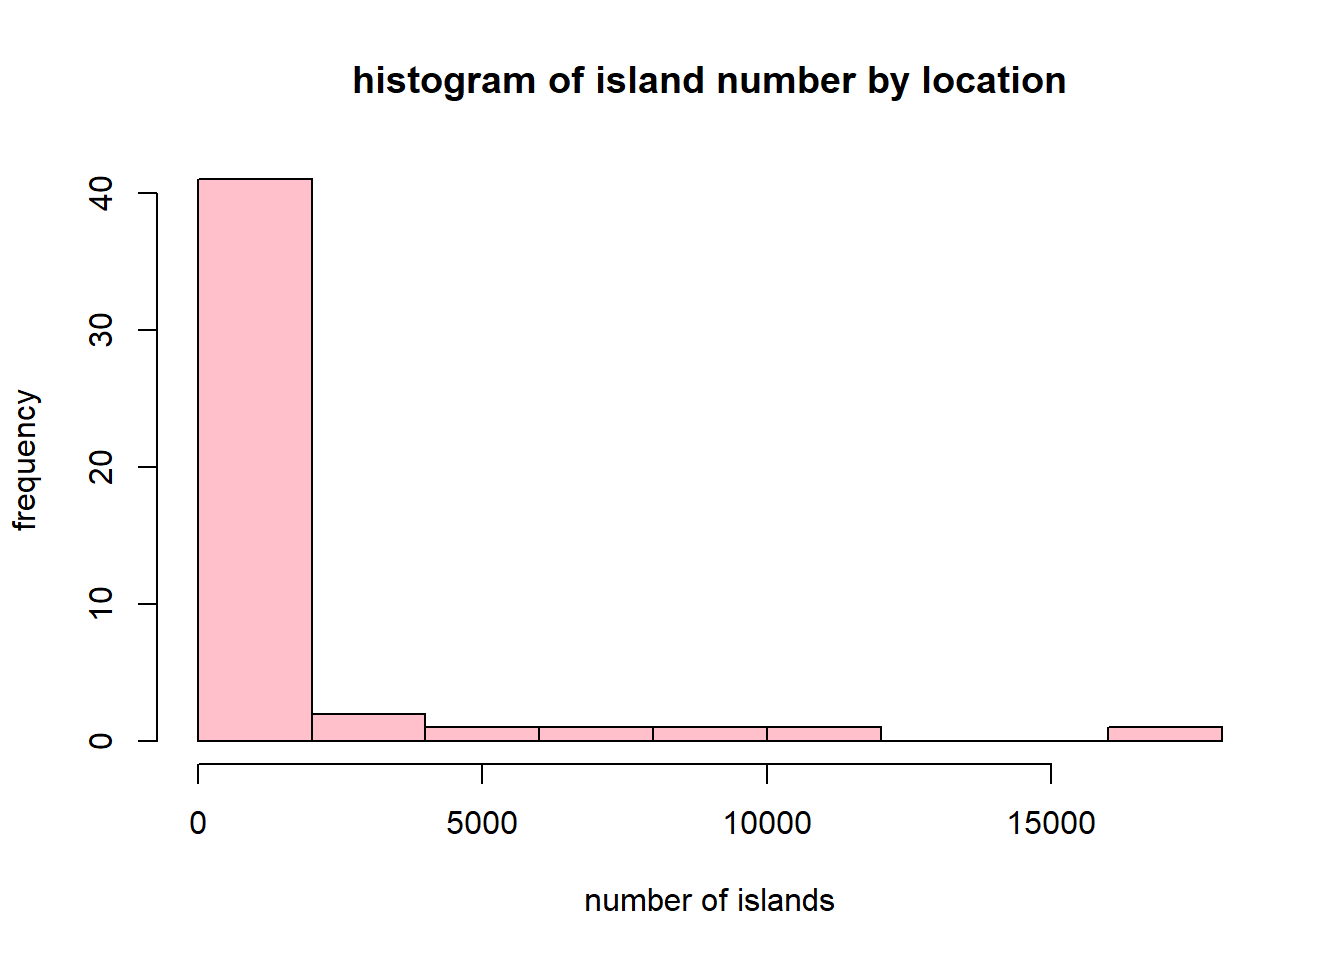
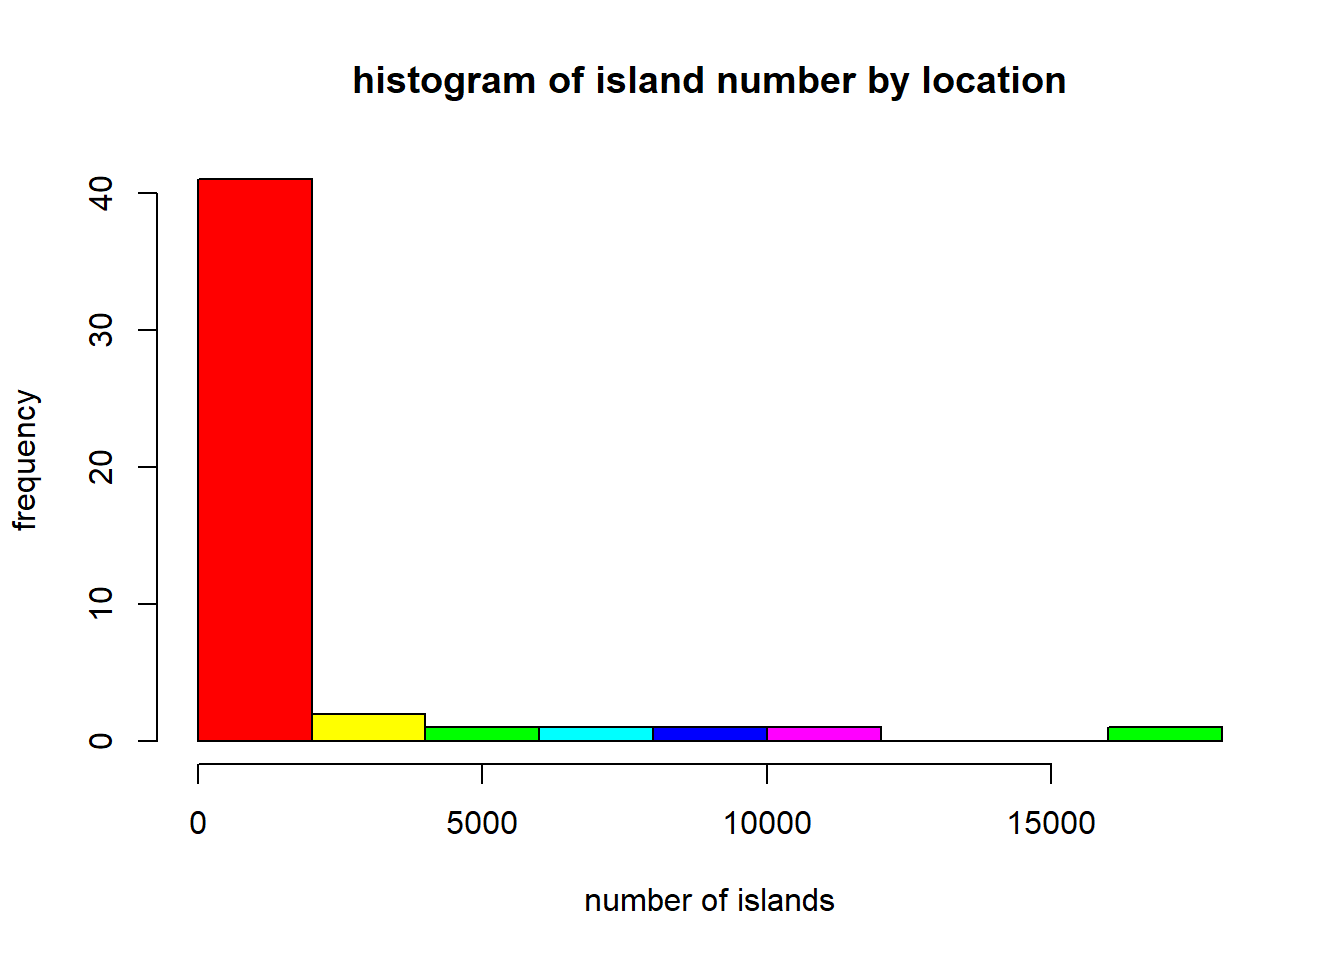
bugfixes and updates to setup.Rmd

Changed region(s): [[0.125, 0.1875, 0.6562, 0.7812], [0.8125, 0.75, 0.9062, 0.7812]]

diff --git a/docs/setup.html b/docs/setup.html
@@ -255,7 +255,7 @@ $(document).ready(function () {
   <a href="session1.html">session 1</a>
 </li>
 <li>
-  <a href="packages.hmtl">packages</a>
+  <a href="packages.html">packages</a>
 </li>
 <li>
   <a href="session2.html">session 2</a>
@@ -358,8 +358,8 @@ $(document).ready(function () {
 <p>functions have often default values, for those cases where there is no need to specify sometimes functions have a complex list of arguments and their position is not enough.</p>
 <p>we can demonstrate both in the histogram function.</p>
 <pre class="r"><code>hist(islands)</code></pre>
-<p>we can replace the default value for the labels given to the axes and the title, as well as the color of the bars by specifying what</p>
-<pre class="r"><code>hist(islands, xlab = &quot;number of islands&quot;, ylab=&quot;frequency&quot;, main=&quot;histogram of island number by location&quot;, col=(&quot;pink&quot;))</code></pre>
+<p><img src="setup_files/figure-html/unnamed-chunk-4-1.png" width="672" /> we can replace the default value for the labels given to the axes and the title, as well as the color of the bars by specifying that</p>
+<pre class="r"><code>hist(islands, xlab = &quot;number of islands&quot;, ylab=&quot;frequency&quot;, main=&quot;histogram of island number by location&quot;, col=rainbow(6))</code></pre>
 <p><img src="setup_files/figure-html/unnamed-chunk-5-1.png" width="672" /></p>
 <p>In the extreme case, some functions do not require any arguments. However you must still add an empty (). For instance, getwd() will return the working directory (i.e the folder R is currently opening – which may be different from the folder your script is)</p>
 <pre class="r"><code>getwd()</code></pre>

diff --git a/docs/index.html b/docs/index.html
@@ -255,7 +255,7 @@ $(document).ready(function () {
   <a href="session1.html">session 1</a>
 </li>
 <li>
-  <a href="packages.hmtl">packages</a>
+  <a href="packages.html">packages</a>
 </li>
 <li>
   <a href="session2.html">session 2</a>

diff --git a/docs/packages.html b/docs/packages.html
@@ -255,7 +255,7 @@ $(document).ready(function () {
   <a href="session1.html">session 1</a>
 </li>
 <li>
-  <a href="packages.hmtl">packages</a>
+  <a href="packages.html">packages</a>
 </li>
 <li>
   <a href="session2.html">session 2</a>

diff --git a/docs/reading.html b/docs/reading.html
@@ -255,7 +255,7 @@ $(document).ready(function () {
   <a href="session1.html">session 1</a>
 </li>
 <li>
-  <a href="packages.hmtl">packages</a>
+  <a href="packages.html">packages</a>
 </li>
 <li>
   <a href="session2.html">session 2</a>

diff --git a/docs/session1.html b/docs/session1.html
@@ -255,7 +255,7 @@ $(document).ready(function () {
   <a href="session1.html">session 1</a>
 </li>
 <li>
-  <a href="packages.hmtl">packages</a>
+  <a href="packages.html">packages</a>
 </li>
 <li>
   <a href="session2.html">session 2</a>

diff --git a/docs/session2.html b/docs/session2.html
@@ -255,7 +255,7 @@ $(document).ready(function () {
   <a href="session1.html">session 1</a>
 </li>
 <li>
-  <a href="packages.hmtl">packages</a>
+  <a href="packages.html">packages</a>
 </li>
 <li>
   <a href="session2.html">session 2</a>

diff --git a/docs/session3.html b/docs/session3.html
@@ -255,7 +255,7 @@ $(document).ready(function () {
   <a href="session1.html">session 1</a>
 </li>
 <li>
-  <a href="packages.hmtl">packages</a>
+  <a href="packages.html">packages</a>
 </li>
 <li>
   <a href="session2.html">session 2</a>
